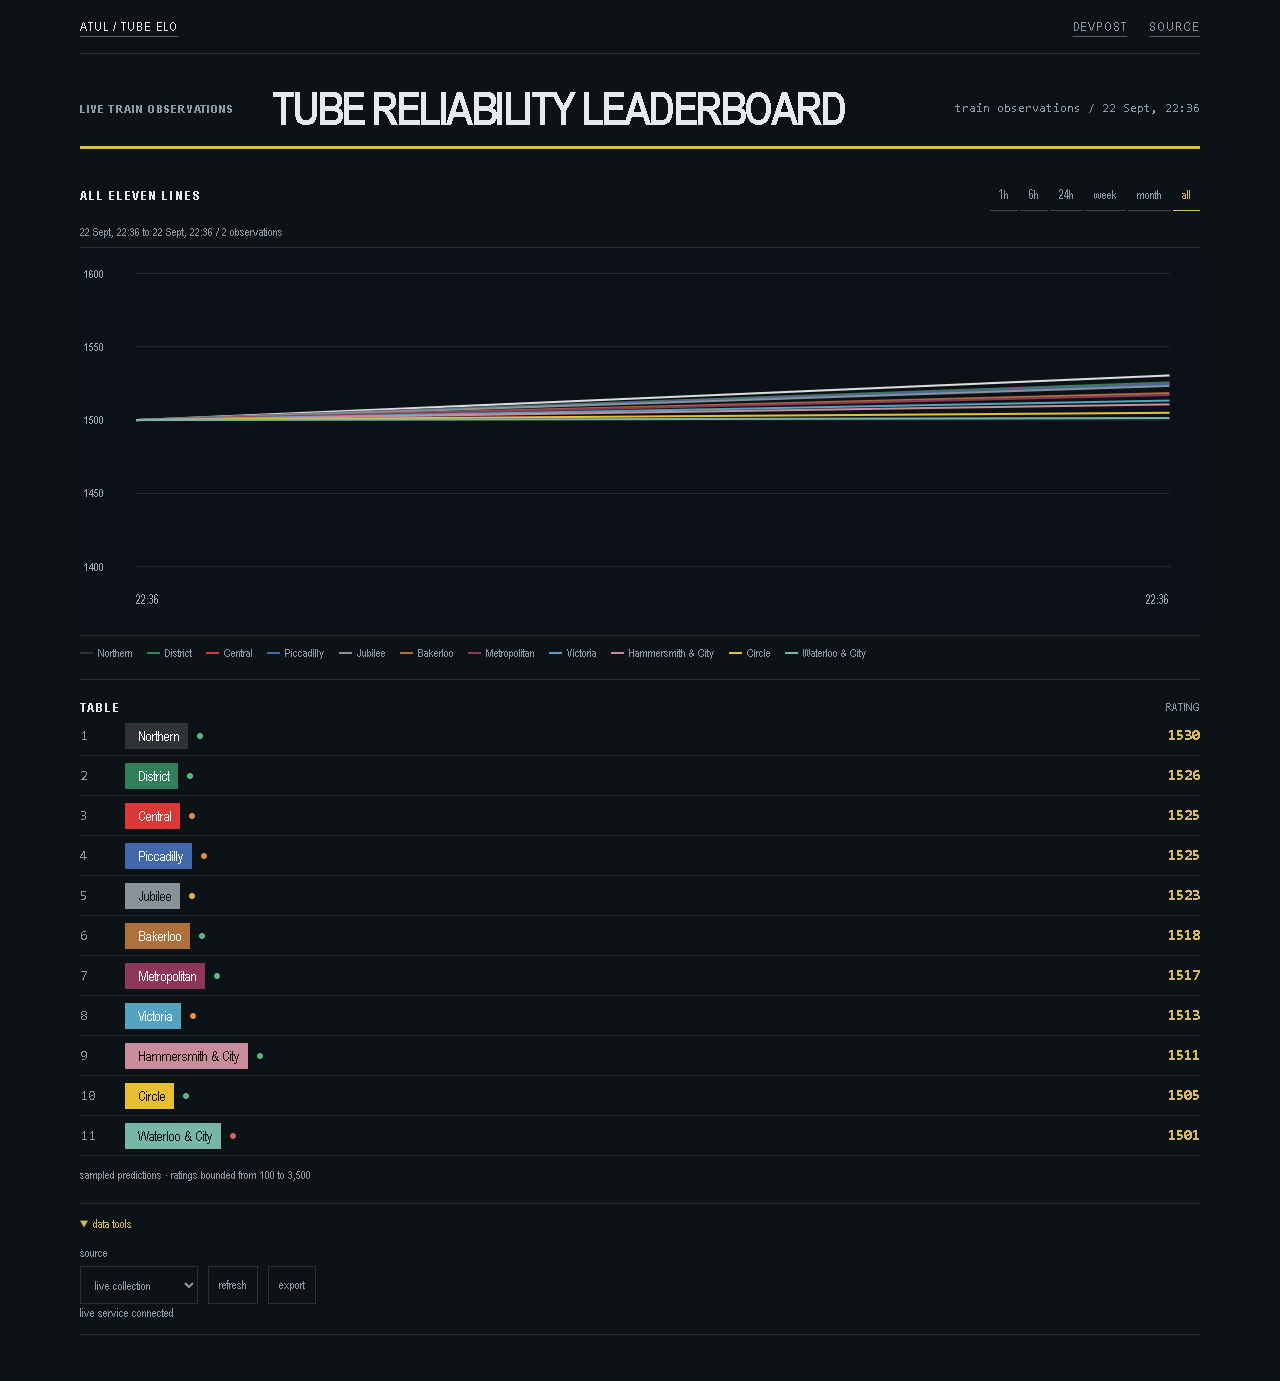
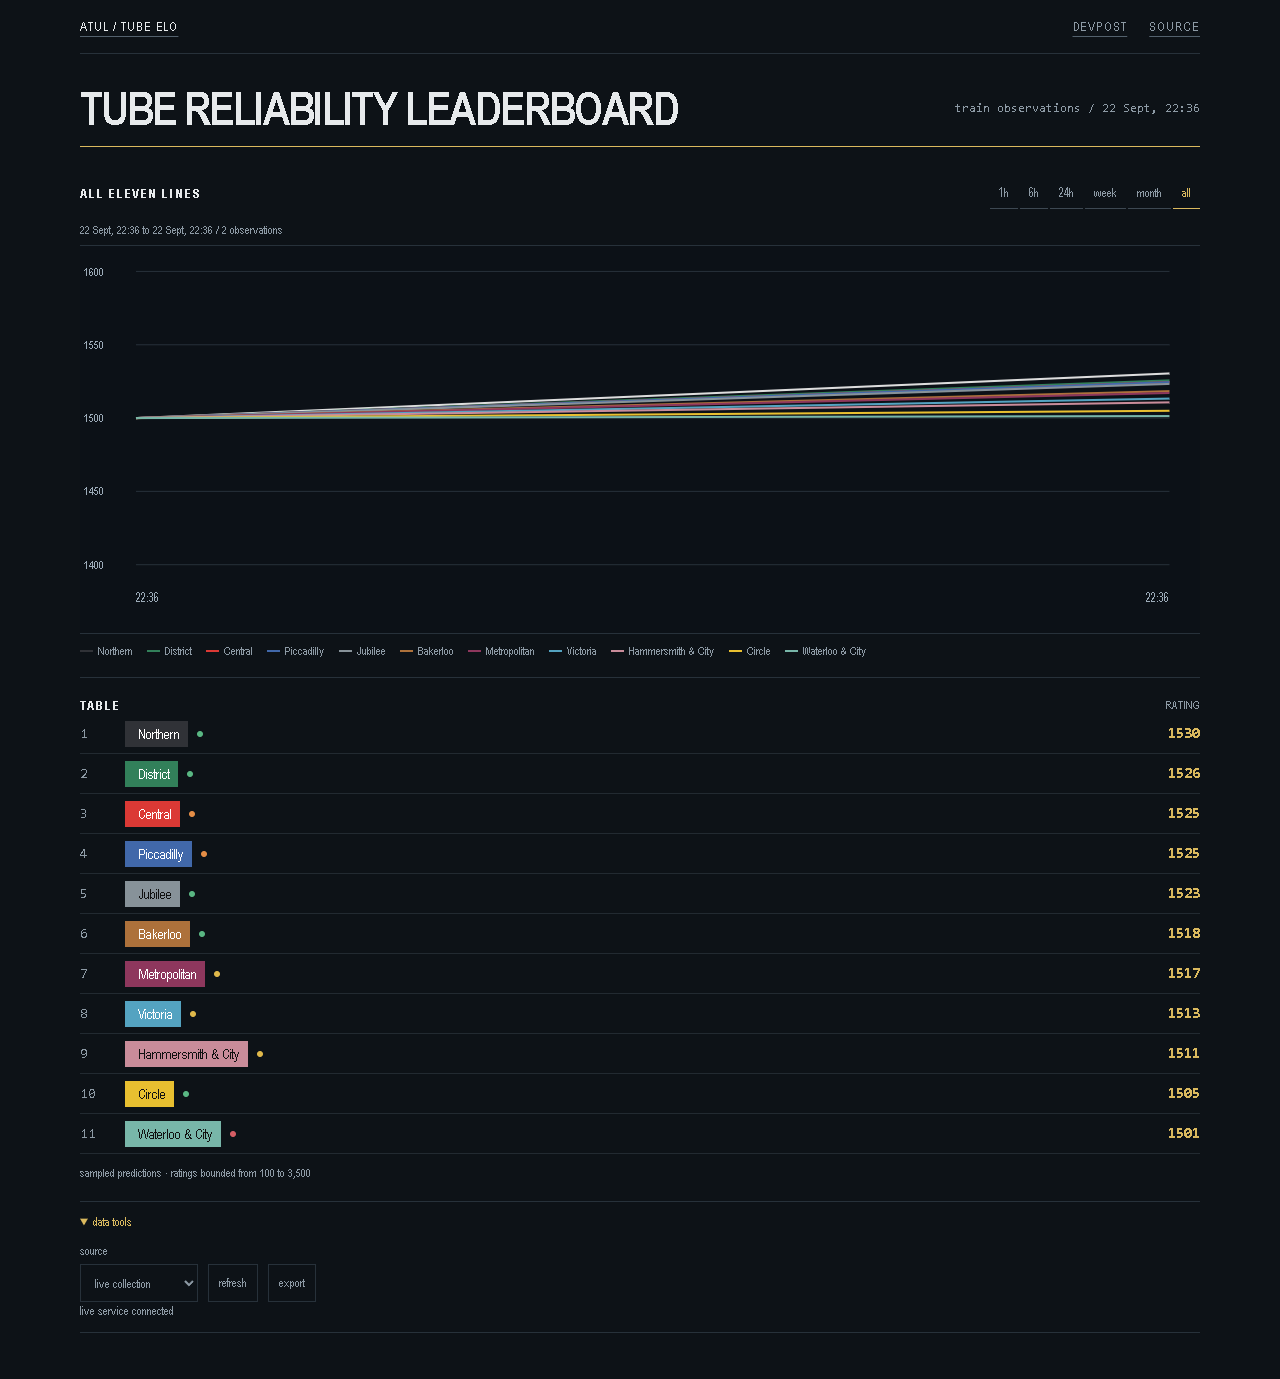
Refine the live Tube leaderboard

diff --git a/examples/portfolio/identity.css b/examples/portfolio/identity.css
@@ -1,2 +1,20 @@
-/* departure board: compressed, numerical, built around the live lines */
-body{font-family:"Arial Narrow","Segoe UI",Arial,sans-serif}header,main{width:min(1120px,calc(100% - 48px))}header{height:54px;text-transform:uppercase;letter-spacing:.08em}main{padding:34px 0 46px}.hero{display:grid;grid-template-columns:170px minmax(0,1fr) auto;align-items:center;gap:22px;margin:0 0 22px;padding-bottom:17px;border-bottom:3px solid var(--accent)}.hero p{grid-column:auto;margin:0;font-weight:700}.hero h1{font:800 clamp(30px,4vw,46px)/.9 "Arial Narrow","Segoe UI",sans-serif;letter-spacing:-.055em;text-transform:uppercase}.hero h1 br{display:none}.hero>span{font-family:ui-monospace,Consolas,monospace}.chart-head{padding:9px 0}.chart-head h2,.board-title h2{font-weight:800}.range-summary{margin:4px 0 7px}#history-chart{margin-top:4px}#line-toggles{padding:9px 0 18px}.line{min-height:40px;padding:4px 0}.rank{font-family:ui-monospace,Consolas,monospace}.elo{font:700 15px/1 ui-monospace,Consolas,monospace}.tools{margin-top:20px;padding-bottom:12px}.tools summary{padding:11px 0}@media(max-width:650px){header,main{width:calc(100% - 30px)}main{padding:27px 0 36px}.hero{display:block;margin-bottom:17px}.hero p{margin-bottom:8px}.hero h1{font-size:36px}.hero>span{margin-top:12px}.timeframes{max-width:72%}}
+/* Departure board: compressed, numerical, built around the live lines. */
+body{font-family:"Arial Narrow","Segoe UI",Arial,sans-serif}
+header,main{width:min(1120px,calc(100% - 48px))}
+header{height:54px;text-transform:uppercase;letter-spacing:.08em}
+main{padding:34px 0 46px}
+.hero{display:grid;grid-template-columns:minmax(0,1fr) auto;align-items:center;gap:22px;margin:0 0 22px;padding-bottom:17px;border-bottom:1px solid var(--accent)}
+.hero h1{font:800 clamp(30px,4vw,46px)/.9 "Arial Narrow","Segoe UI",sans-serif;letter-spacing:-.035em;text-transform:uppercase}
+.hero h1 br{display:none}
+.hero>span{font-family:ui-monospace,Consolas,monospace}
+.chart-head{padding:9px 0}
+.chart-head h2,.board-title h2{font-weight:800}
+.range-summary{margin:4px 0 7px}
+#history-chart{margin-top:4px}
+#line-toggles{padding:9px 0 18px}
+.line{min-height:40px;padding:4px 0}
+.rank{font-family:ui-monospace,Consolas,monospace}
+.elo{font:700 15px/1 ui-monospace,Consolas,monospace}
+.tools{margin-top:20px;padding-bottom:12px}
+.tools summary{padding:11px 0}
+@media(max-width:650px){header,main{width:calc(100% - 30px)}main{padding:27px 0 36px}.hero{display:block;margin-bottom:17px}.hero h1{font-size:36px}.hero>span{margin-top:12px}.timeframes{max-width:72%}}

diff --git a/examples/portfolio/index.html b/examples/portfolio/index.html
@@ -1,7 +1,7 @@
-<!doctype html><html lang="en"><head><meta charset="utf-8"><meta name="viewport" content="width=device-width,initial-scale=1"><title>tube reliability leaderboard</title><link rel="stylesheet" href="style.css"><link rel="stylesheet" href="identity.css"></head><body>
+<!doctype html><html lang="en"><head><meta charset="utf-8"><meta name="viewport" content="width=device-width,initial-scale=1"><title>tube reliability leaderboard</title><link rel="icon" href="favicon.svg" type="image/svg+xml"><link rel="stylesheet" href="style.css"><link rel="stylesheet" href="identity.css"></head><body>
 <header><a href="https://lolstar123.github.io/just-a-little-further/">atul / tube elo</a><nav><a href="https://devpost.com/software/tfl-elo-tracker">devpost</a><a href="https://github.com/LolStar123/tfl-reliability">source</a></nav></header>
 <main>
-<section class="hero"><p>live train observations</p><h1>tube reliability leaderboard</h1><span id="updated">loading…</span></section>
+<section class="hero"><h1>tube reliability leaderboard</h1><span id="updated">loading…</span></section>
 <section id="history" class="view">
     <div class="chart-head"><h2>all eleven lines</h2><div class="timeframes" role="group" aria-label="Chart timeframe"><button data-hours="1">1h</button><button data-hours="6">6h</button><button data-hours="24" aria-pressed="true">24h</button><button data-hours="168">week</button><button data-hours="720">month</button><button data-hours="0">all</button></div></div>
     <p class="range-summary" aria-live="polite"></p>

diff --git a/DESIGN.md b/DESIGN.md
@@ -1,0 +1,15 @@
+# Tube reliability demo design
+
+The landing page is the product: all eleven Tube lines moving through one rating history, with the current ranking immediately below.
+
+The interface uses the live collector's bounded Elo-style ratings and preserves the original hackathon archive as a separate data source. Timeframe controls change the visible history without hiding lines, and each line can be focused from the legend. The table keeps official line colours, service state and the current score together.
+
+The visual language is a compressed departure board: dark navy, narrow type, hard rules and restrained yellow for ratings. It stays numerical without looking like a generic analytics dashboard.
+
+Rules:
+
+- Always show all eleven lines on first load.
+- Never present sampled predictions as confirmed movements or cancellations.
+- Keep live and archived observations visibly separate.
+- Ratings stay between 100 and 3,500 and retain restoring pressure toward 1,500.
+- Desktop and mobile preserve timeframe controls, line focus, export and source switching.
